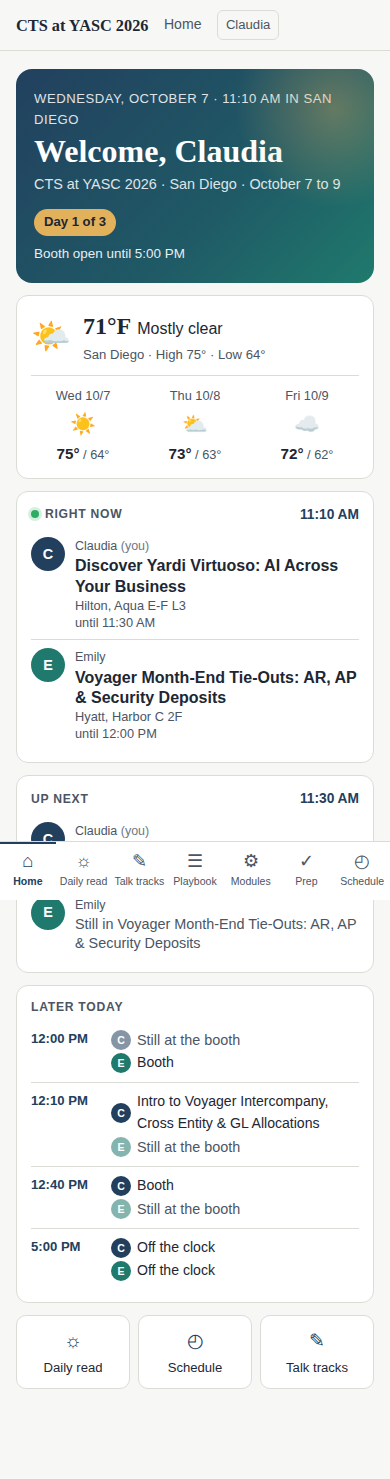
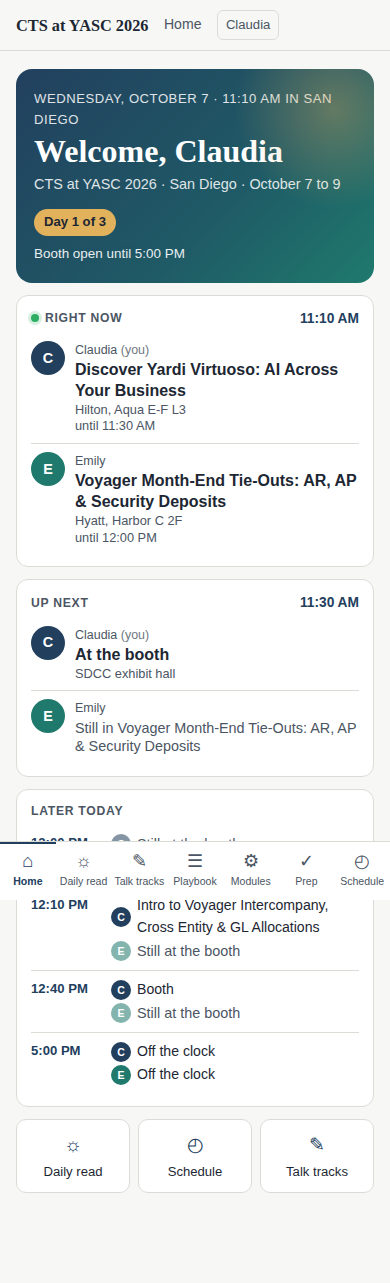
Remove weather card from Home
Claude-Session: https://claude.ai/code/session_01V4nc3dMKs82GpYQb2NUETG

diff --git a/site/index.html b/site/index.html
@@ -149,8 +149,6 @@ details>.body>*:first-child{margin-top:12px}
     <div class="hm-count" id="hmCount"></div>
   </div>
 
-  <div class="hm-wx" id="hmWx" hidden></div>
-
   <div class="hm-card" id="hmNowCard" hidden>
     <div class="hm-lbl"><span class="hm-live"></span>Right now <span class="hm-time" id="hmNowTime"></span></div>
     <div id="hmNow"></div>
@@ -1637,16 +1635,6 @@ body.view-only .seg button,body.view-only .star,body.view-only #afSave,body.view
 .hm-tiles span{font-size:.7rem;text-transform:uppercase;letter-spacing:.06em;opacity:.85}
 .hm-cap{font-size:.84rem;opacity:.9;margin-top:8px}
 .hm-badge{display:inline-block;background:#E2B15C;color:#1D2733;font-weight:600;font-size:.82rem;padding:3px 10px;border-radius:99px}
-.hm-wx{border:1px solid var(--line);border-radius:12px;background:var(--panel);padding:12px 14px;margin:0 0 12px}
-.hm-wxnow{display:flex;align-items:center;gap:12px}
-.hm-wxic{font-size:2rem;line-height:1}
-.hm-wxnow b{font-family:var(--serif);font-size:1.5rem;margin-right:6px}
-.hm-wxnow small{display:block;color:var(--ink-2);font-size:.82rem}
-.hm-wxdays{display:grid;grid-template-columns:repeat(3,1fr);gap:8px;margin-top:10px;padding-top:10px;border-top:1px solid var(--line)}
-.hm-wxdays div{text-align:center;font-size:.8rem;color:var(--ink-2)}
-.hm-wxdays i{display:block;font-style:normal;font-size:1.3rem;margin:2px 0}
-.hm-wxdays b{color:var(--ink);font-size:.95rem}
-.hm-wxnote{font-size:.8rem;color:var(--ink-2);margin-top:8px}
 .hm-card{border:1px solid var(--line);border-radius:12px;background:var(--panel);padding:12px 14px;margin:0 0 12px}
 .hm-lbl{font-size:.76rem;font-weight:600;text-transform:uppercase;letter-spacing:.06em;color:var(--ink-2);display:flex;align-items:center;gap:6px;margin-bottom:4px}
 .hm-time{margin-left:auto;color:var(--navy);text-transform:none;letter-spacing:0;font-size:.86rem}
@@ -1677,6 +1665,7 @@ body.view-only .seg button,body.view-only .star,body.view-only #afSave,body.view
 </style>
 <script>
 (function(){
+  try{ localStorage.removeItem('yasc-wx'); }catch(e){}
   var NAMES={c:'Claudia',e:'Emily'}, TZ='America/Los_Angeles';
   var DAYKEY={'2026-10-07':'wed','2026-10-08':'thu','2026-10-09':'fri'}, ORDER=['wed','thu','fri'], DAYNAME={wed:'Wednesday',thu:'Thursday',fri:'Friday'};
   var OPEN=Date.UTC(2026,9,7,15,0), CLOSE=Date.UTC(2026,9,10,0,0); /* booth opens 8:00 AM PT Oct 7; closes 5:00 PM PT Oct 9 */
@@ -1754,33 +1743,13 @@ body.view-only .seg button,body.view-only .star,body.view-only #afSave,body.view
     if(rest&&rest.length){ $('hmDayLbl').textContent=restLbl; $('hmDay').innerHTML=lineup(rest,order,ch[0]); dayC.hidden=false; }
   }
 
-  /* ---------- weather (Open-Meteo, no key) ---------- */
-  var WX={0:['Clear','☀'],1:['Mostly clear','🌤'],2:['Partly cloudy','⛅'],3:['Overcast','☁'],45:['Fog','🌫'],51:['Drizzle','🌦'],61:['Rain','🌧'],71:['Snow','🌨'],80:['Showers','🌦'],95:['Thunderstorms','⛈']};
-  function wxOf(c){ if(WX[c]) return WX[c]; var ks=[95,80,71,61,51,45]; for(var i=0;i<ks.length;i++) if(c>=ks[i]) return WX[ks[i]]; return WX[3]; }
-  function renderWx(w){
-    try{ var c=w.current, cw=wxOf(c.weather_code), dl=w.daily, today=dl.time.indexOf(pt(now()).ymd);
-      var h='<div class="hm-wxnow"><span class="hm-wxic">'+cw[1]+'</span><div><b>'+Math.round(c.temperature_2m)+'&deg;F</b>'+cw[0]+'<small>San Diego'+(today>-1?' · High '+Math.round(dl.temperature_2m_max[today])+'&deg; · Low '+Math.round(dl.temperature_2m_min[today])+'&deg;':'')+'</small></div></div>';
-      var days=[['2026-10-07','Wed 10/7'],['2026-10-08','Thu 10/8'],['2026-10-09','Fri 10/9']].map(function(x){ var i=dl.time.indexOf(x[0]); return i<0?null:'<div>'+x[1]+'<i>'+wxOf(dl.weather_code[i])[1]+'</i><b>'+Math.round(dl.temperature_2m_max[i])+'&deg;</b> / '+Math.round(dl.temperature_2m_min[i])+'&deg;</div>'; });
-      if(days.every(Boolean)) h+='<div class="hm-wxdays">'+days.join('')+'</div>';
-      else if(now()<OPEN) h+='<div class="hm-wxnote">Booth-week forecast appears about two weeks out.</div>';
-      $('hmWx').innerHTML=h; $('hmWx').hidden=false; }catch(e){}
-  }
-  function loadWx(){
-    var c=null; try{ c=JSON.parse(localStorage.getItem('yasc-wx')||'null'); }catch(e){}
-    if(c&&c.data){ renderWx(c.data); if(Date.now()-c.at<30*60000) return; }
-    var url='https://api.open-meteo.com/v1/forecast?latitude=32.7076&longitude=-117.1625&current=temperature_2m,weather_code&daily=weather_code,temperature_2m_max,temperature_2m_min&temperature_unit=fahrenheit&timezone=America%2FLos_Angeles&forecast_days=16';
-    if(!window.fetch) return;
-    fetch(url).then(function(r){ if(!r.ok) throw 0; return r.json(); }).then(function(data){ try{ localStorage.setItem('yasc-wx',JSON.stringify({at:Date.now(),data:data})); }catch(e){} renderWx(data); }).catch(function(){});
-  }
-
   /* ---------- wiring ---------- */
   document.getElementById('pane-home').addEventListener('click',function(e){ var b=e.target.closest('[data-goto]'); if(!b) return; var t=document.querySelector('.tabbar [data-pane="'+b.dataset.goto+'"]'); if(t) t.click(); });
   ['yasc-sched','yasc-user','yasc-pane'].forEach(function(ev){ window.addEventListener(ev,render); });
   var lastMin=null;
   setInterval(function(){ if(!$('pane-home').classList.contains('on')) return; var ms=now(), m=pt(ms).min; if(m!==lastMin){ lastMin=m; render(); } else renderCount(ms,DAYKEY[pt(ms).ymd]); },1000);
-  setInterval(loadWx,30*60000);
-  document.addEventListener('visibilitychange',function(){ if(!document.hidden){ render(); loadWx(); } });
-  render(); loadWx();
+  document.addEventListener('visibilitychange',function(){ if(!document.hidden) render(); });
+  render();
 })();
 </script>
 </body>

diff --git a/CLAUDE.md b/CLAUDE.md
@@ -41,8 +41,7 @@ see Access below.
 
 ## Home tab
 The page always opens on Home. It greets the signed-in person, shows the date and time in San Diego, a countdown to the
-booth opening (Oct 7, 8:00 AM PT), San Diego weather plus the Oct 7 to 9 forecast (Open-Meteo, no key, cached 30 min in
-localStorage), and Right now / Up next / Later today for both people. All times are Pacific.
+booth opening (Oct 7, 8:00 AM PT), and Right now / Up next / Later today for both people. All times are Pacific.
 - The schedule script exposes `window.YascSched` (read-only helpers) and fires a `yasc-sched` event on every render;
   the gate fires `yasc-user`. Home re-renders on both, and each minute while visible.
 - Status rules: inside a picked non-booth session = that session; otherwise inside booth hours = at the booth;
@@ -61,7 +60,7 @@ Options, in order of effort:
 - Times are 12-hour AM/PM strings (`"9:50 AM"`); `toMin()` / `fmt()` convert. Keep that format in seed data and imports.
 - No em dashes anywhere in copy. US spelling.
 - Copy is app voice, not conversational; no "I" or "send me".
-- Keep the page self-contained apart from Google Fonts, the supabase-js UMD from jsdelivr, and the Open-Meteo weather fetch.
+- Keep the page self-contained apart from Google Fonts and the supabase-js UMD from jsdelivr.
 
 ## Open items
 - Friday agenda not yet loaded (import via Pick sessions > Import, or add to SEED).
